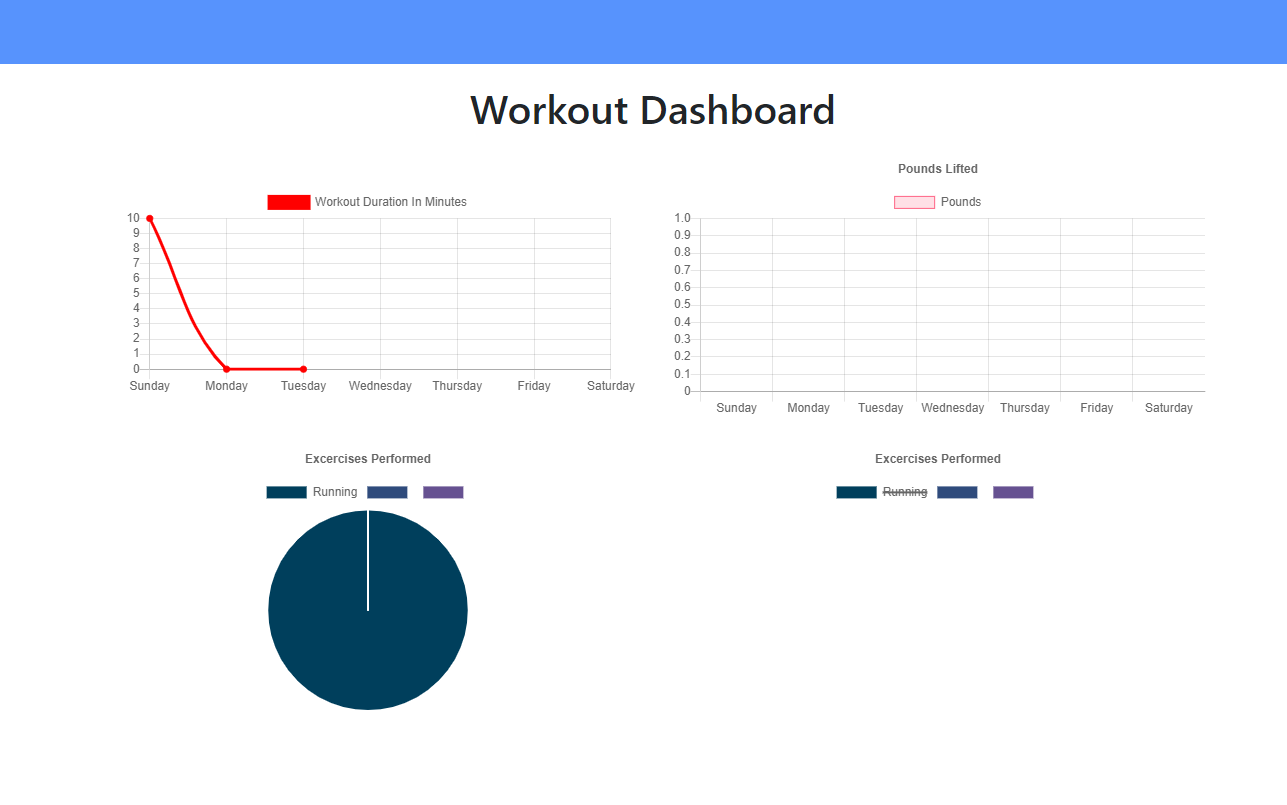
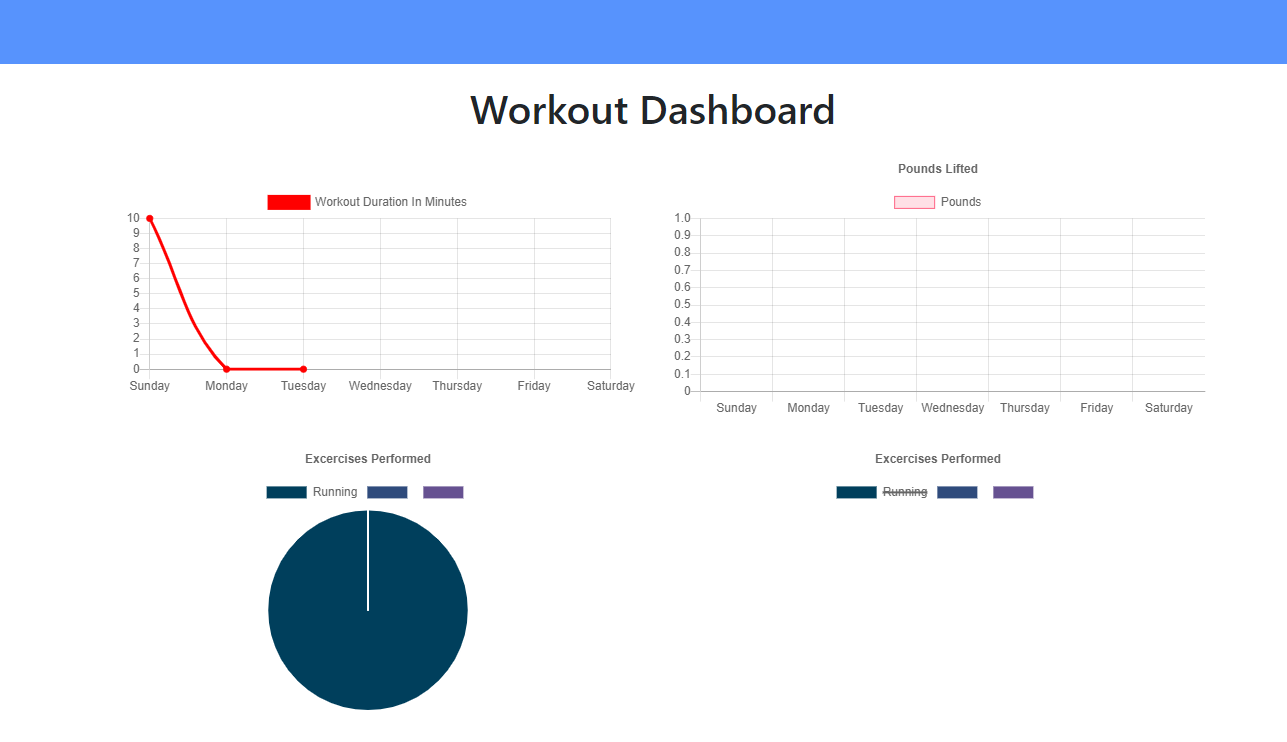
updated image size, added 2 new projects, added footer

diff --git a/src/components/Project.js b/src/components/Project.js
@@ -15,7 +15,8 @@ function Project (props) {
                         <Card.Title>{props.name}</Card.Title>
                         <Card.Text>
                         </Card.Text>
-                        <Button variant="primary" target="_blank" href={props.deployed}>Deployed Site</Button>
+                        <Button variant="info" target="_blank" href={props.deployed}>Deployed Site</Button>
+                        <Button className="ml-3" variant="outline-dark" target="_blank" href={props.github}>Github</Button>
                     </Card.Body>
                 </Card>
             </Col>

diff --git a/src/components/Container.js b/src/components/Container.js
@@ -4,6 +4,7 @@ import Portfolio from "../pages/portfolio";
 import About from "../pages/about";
 import Contact from "../pages/contact";
 import { BrowserRouter as Router, Route } from "react-router-dom";
+import Footer from "./Footer"
 
 
 function Container() {
@@ -17,6 +18,9 @@ function Container() {
             <Route exact path="/portfolio" component={Portfolio} />
             <Route path="/contact" component={Contact} />
           </div>
+          <br />
+          <br />
+          <Footer />
         </div>
       </Router>
     );

diff --git a/src/components/Footer.js b/src/components/Footer.js
@@ -1,0 +1,10 @@
+import React from "react";
+import { Navbar, Nav } from "react-bootstrap";
+
+const Footer = (props) => (
+    <Navbar fixed="bottom" bg="light" className="justify-content-center">
+        <Navbar.Brand> Copyright 2020 </Navbar.Brand>
+    </Navbar>
+  );
+  
+  export default Footer;

diff --git a/src/pages/portfolio/index.js b/src/pages/portfolio/index.js
@@ -7,7 +7,7 @@ import { Container, CardGroup } from "react-bootstrap"
 const Portfolio = () => (
   <>
     <Header title="Portfolio"/>
-      <Container fluid>
+      <Container >
         <CardGroup>
           {projectList.map(project => 
             <Project 
